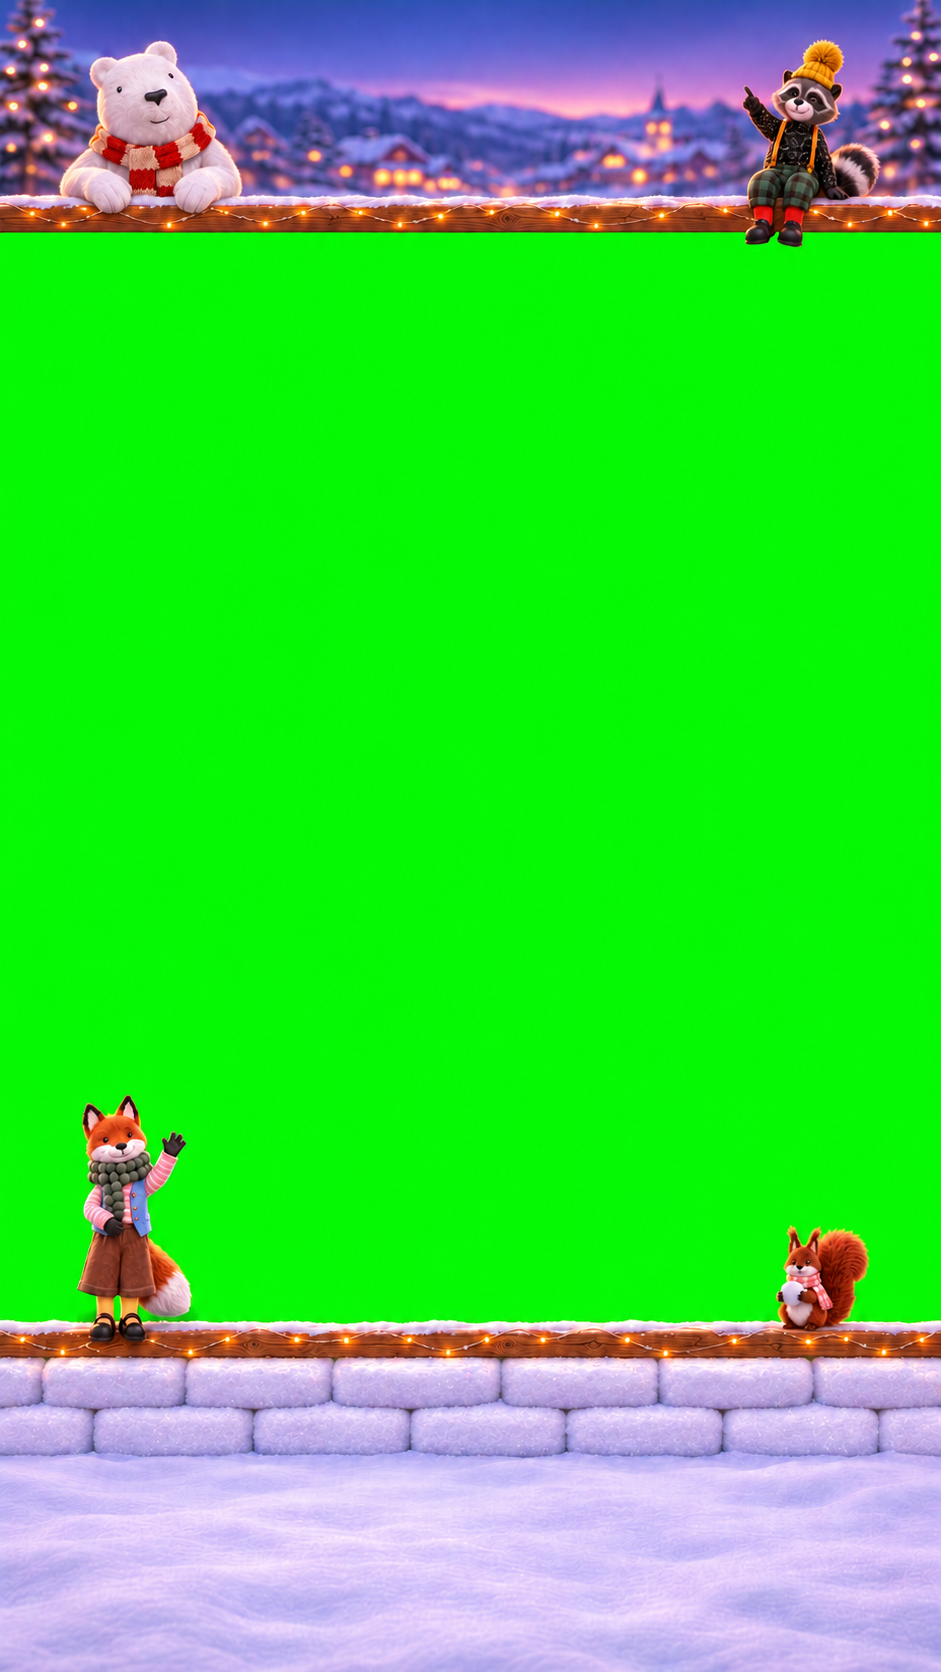
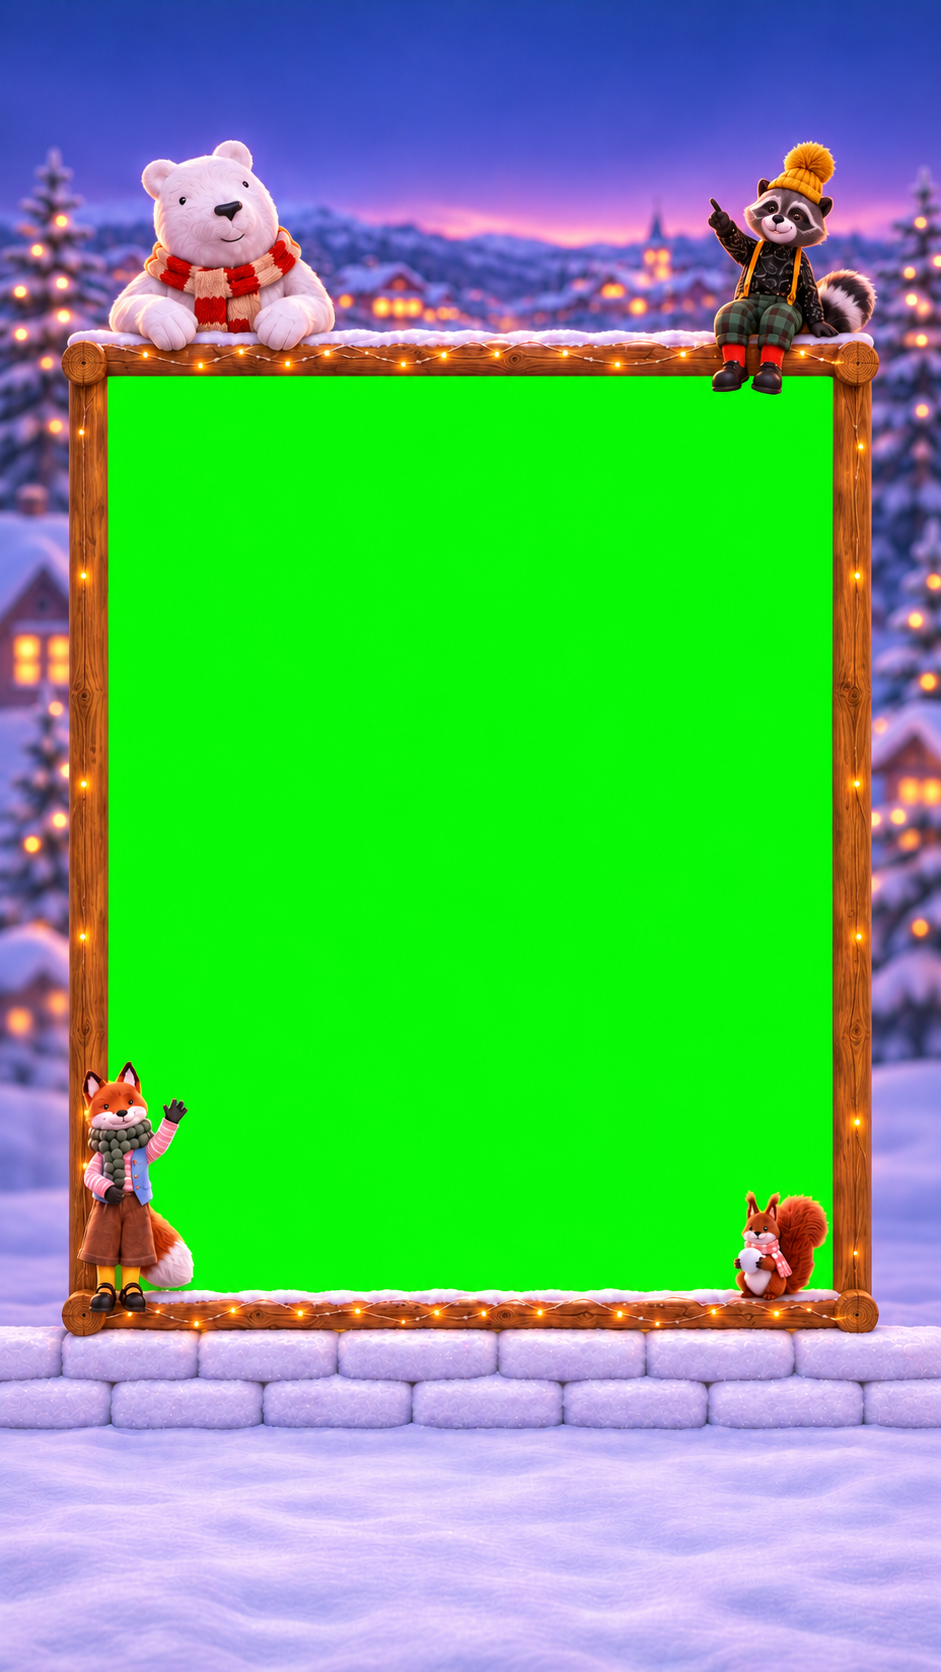
Add connected wooden frame with snowy side margins

diff --git a/docs/logs/2026-11-07-03-wood-frame-image.md b/docs/logs/2026-11-07-03-wood-frame-image.md
@@ -1,0 +1,61 @@
+# 16단계 — 좌우 여백과 연결된 나무틀 이미지
+
+## 범위와 작업
+
+- 깨끗한 작업 트리를 확인하고 `master f386920`에서 `stage16-wood-assets`를 만들었다.
+- Opus의 정확한 3:4 창 좌표와 배치 가이드를 받은 뒤 내장 `image_gen` 편집 1회를 실행했다.
+- 기존 압설 눈벽·캐릭터·배경 판을 바탕으로 좌우 기둥과 연결된 네 모서리, 기둥 바깥 DOF 눈마을 여백을 추가했다.
+- 유화·파인 글씨는 런타임 처리다. 이미지에 글자·발자국·유화 필터를 굽지 않았다.
+- CLI/API/Python 이미지 편집, UI·코드·현장 설정 변경은 하지 않았다. 실제 촬영 자료를 사용하지 않았다.
+
+## 입력과 전체 프롬프트
+
+입력을 직접 `view_image`로 확인했다.
+
+1. 편집 대상: master의 `src/web/assets/scene/snow-frame-plate.png`, 15단계 압설벽 판(941×1672).
+2. 구도 가이드: Opus의 `artifacts/stage16/wood-frame-guide.png`. 위치·크기만 참고하며 글자·상자·가이드선을 출력하지 않는다.
+3. 공식 `13_characters_3d_scale_lineup.png`는 정체성·척도 확인용으로 열었으나 생성 입력에 추가하지 않았다.
+
+내장 도구 `transparent_background=false`, 참조 2개.
+
+```text
+Use case: compositing.
+Edit the existing Christmas photobooth plate (Input1) to the exact new spatial layout (Input2). Input1 supplies character identity, exact poses, relative sizes, materials, snowy village, opaque packed-snow wall, lighting. Input2 is ONLY a geometry guide: never render any labels, boxes, outlines or text from it.
+Output one opaque portrait PNG, exactly 9:16, preferably 1080x1920. Do not squeeze or distort any character or the scenery.
+NEW FRAME: ONE connected four-sided rustic wooden frame with joined log corners. On a 1080x1920 canvas: top beam x117-963 y342-378; bottom beam x117-963 y1422-1458; left post x117-153 y342-1458; right post x927-963 y342-1458. All wood approximately36px thick with the same warm wood grain as Input1. Snow caps on horizontal surfaces, warm fairy lights along horizontal beams and just a few on posts. No gap at any of the four corners.
+CAMERA: exact 3:4 opening centered at x135-945,y360-1440, 810x1080. Beams/posts overlap its edge by18px. The entire interior is perfectly flat pure #00FF00, no texture/gradient/reflections/shadows. Only overlapping character portions remain opaque.
+SIDE MARGINS: outside frame x0-117 and x963-1080 are REAL CONTINUOUS blurred snowy village/fir trees/sky matching the top scene, extending down to y1458. NO GREEN outside the wooden frame. Top background y0-342 remains blue-violet twilight village with warm golden bokeh and peach horizon, shallow DOF.
+CHARACTERS: preserve Input1 identity/outfits/poses and same size relative to full canvas, MOVE only to the new frame. Bear upper-left x150-410, head aroundy150, leaning from behind top beam with both white rounded mitten paws on it. Raccoon upper-right x760-960 sitting on top beam, legs dangling, one hand pointing upward. Fox lower-left x60-280 in FRONT of left post, waving, feet at y1458 standing atop snow wall. Squirrel lower-right x800-930,y1320-1424 sitting on bottom beam holding tiny snowball. Do not enlarge mascots, keep official relative scale and faces. Leave central face zone x300-780 y460-1360 clear green.
+BELOW: full-width opaque packed-snow block wall y1458-1560, two staggered rows with rounded pillowy edges and lavender-white snow grains exactly like Input1 (NOT glass or translucent ice). Frame posts rest on this wall. Beneath wall y1560-1920 broad EMPTY smooth snow floor with gentle violet shadows, no text or footprints.
+No oil painting or brushstroke treatment; runtime applies that later. No letters, numbers, logos, UI, guides, falling snow, extra characters. Preserve current clean 3D artwork, fur, scarves and warm/cool lighting. The major change is enclosing the camera with joined side posts and visible background side margins, moving existing objects to the guide positions.
+```
+
+## 요청 규격
+
+1080×1920 기준:
+
+- 카메라 x135~945/y360~1440 = 810×1080, 정확 3:4.
+- 위 들보 x117~963/y342~378, 아래 들보 x117~963/y1422~1458.
+- 좌 기둥 x117~153, 우 기둥 x927~963, 둘 다 y342~1458.
+- 압설 눈벽 y1458~1560, 빈 눈바닥 y1560~1920.
+- 캐릭터 포즈·상대 크기 유지, 새 틀 위치로 이동. 중앙 얼굴 구역 x300~780/y460~1360 비움.
+
+## 생성 결과와 경계 확인
+
+- 원본 보존: generated_images 세션 `01a1b0c8-ed89-75a1-9880-1c3cd0a94326`의 `exec-9ddc025d-24ce-404b-abaa-f226560d3aed.png`.
+- 실제 출력 **941×1672**, 정확 9:16과 약0.05% 차이. 생성 원본은 변형하지 않았다.
+- System.Drawing 읽기 전용 픽셀 측정, 키 조건 `G-max(R,B)>=140`:
+  - x250/470/600 열에서 y376~1289/1290/1289.
+  - y500/800/1000 행에서 x108/109/108~831.
+  - 대표 키 사각형(끝 제외) 약 x108~832/y376~1291. 1080×1920 환산 약 x124~955/y432~1482.
+- 네 나무 변 중심선은 육안으로 원본 x≈88/852, y≈358/1313. 1080×1920 환산 x≈101/978, y≈411/1508. 눈·전구·나뭇결 때문에 기계적인 정확 중심선으로 보고하지 않는다.
+- 요청한 창과 실제 생성 경계가 다르다. 원본 단순 전체 확대만으로 정확 3:4 좌표를 충족하지 않는다. Opus에게 실측과 원본을 전달해 균일 배율·평행이동·띠 이동으로 표시 합성이 가능한지 검토를 요청했다.
+- 육안: 연결된 상하좌우 틀과 네 모서리, 기둥 바깥 마을, 불투명 압설블록 2단, 네 캐릭터 포즈, 빈 눈바닥·글자 없음 확인.
+- 생성 편집으로 전체 화소가 재생성된다. 얼굴·옷·포즈는 유지되지만 정체성·크기의 픽셀 동일성은 보장하지 않는다. 곰의 화면 비중은 이전보다 다소 커 보이며 정확한 기립 환산 척도는 미검증이다.
+- 실제 카메라·브라우저·런타임 유화 합성 및 출력은 이 이미지 작업에서 검증하지 않았다. 코드 테스트도 실행하지 않았다.
+
+## 남은 문제와 바로 다음 작업
+
+- Opus가 동일한 실측(그린 x108~831/y376~1290, 끝 포함)을 확인하고 생성판을 채택했다. 추가 생성하지 않는다.
+- Opus의 표시 합성 계획: 균일 배율 1080/915≈1.180과 가운데 맞춤으로 개구부 높이를 y360~1440에 맞춘다. 좌우에 남는 약22px 그린은 기둥 나무를 거울처럼 이어 채워 정확한 3:4(x135~945)를 만든다. 원본을 찌그러뜨리지 않는다. 이 방식의 실제 구현·검증은 Opus 담당이며 본 자산 작업의 검증 결과가 아니다.
+- 생성 원본 바이트 그대로 슬롯 PNG에 복사하고 본 로그와 두 파일만 커밋해 부모·Opus에 전달한다. master 병합·push는 하지 않는다.
